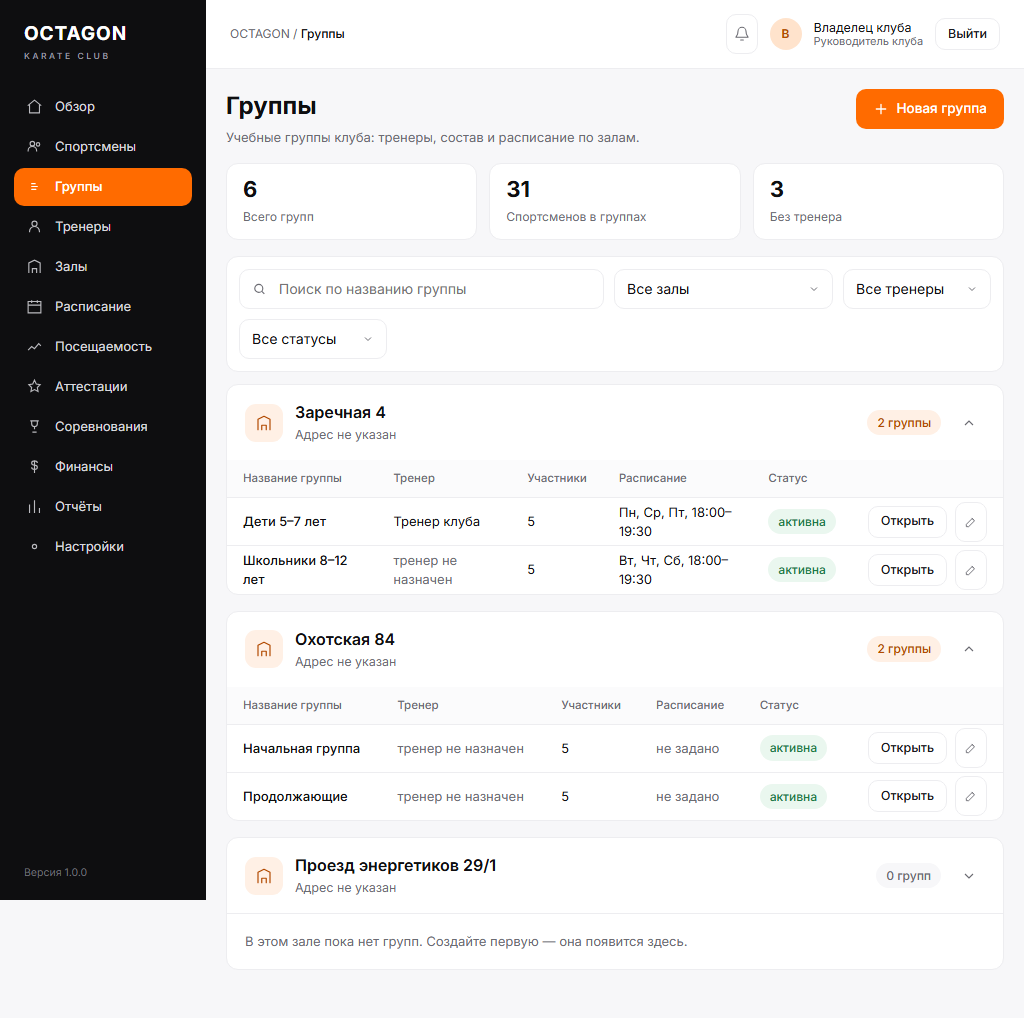
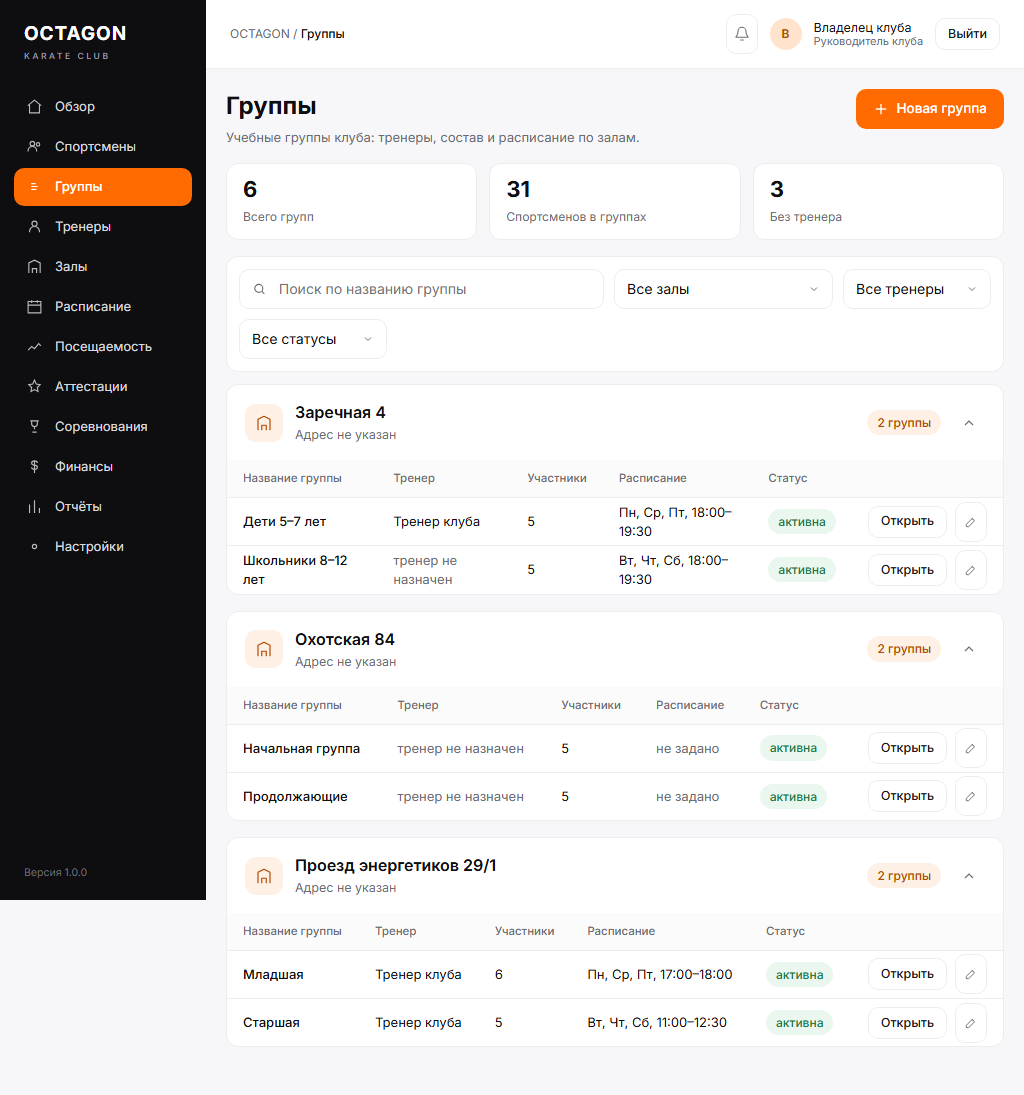
fix(design): меню на мобильном, прокрутка вкладок, 6 групп в залах (#131)

diff --git a/docs/design/mockups/groups-empty.html b/docs/design/mockups/groups-empty.html
@@ -1,0 +1,156 @@
+<!DOCTYPE html>
+<html lang="ru">
+<head>
+<meta charset="utf-8" />
+<meta name="viewport" content="width=device-width, initial-scale=1" />
+<title>OCTAGON Control 2.0 — Группы, пустой зал</title>
+<link rel="preconnect" href="https://fonts.googleapis.com" />
+<link rel="preconnect" href="https://fonts.gstatic.com" crossorigin />
+<link href="https://fonts.googleapis.com/css2?family=Inter:wght@400;500;600;700&display=swap" rel="stylesheet" />
+<link rel="stylesheet" href="mockup.css" />
+<style>
+  .hall {
+    background: var(--white);
+    border: 1px solid var(--line);
+    border-radius: var(--radius-card);
+    overflow: hidden;
+    margin-bottom: 16px;
+  }
+  .hall-head {
+    display: flex;
+    flex-wrap: wrap;
+    align-items: center;
+    gap: 12px;
+    padding: 16px 18px;
+  }
+  .hall-icon {
+    display: grid;
+    place-items: center;
+    width: 38px;
+    height: 38px;
+    border-radius: 11px;
+    background: var(--accent-soft);
+    color: var(--accent-text);
+    flex: 0 0 auto;
+  }
+  .hall-title { min-width: 0; }
+  .hall-title h2 { margin: 0; font-size: 16px; font-weight: 600; }
+  .hall-title p { margin: 2px 0 0; color: var(--muted); font-size: 12.5px; }
+  .hall-count {
+    margin-left: auto;
+    padding: 4px 10px;
+    border-radius: 999px;
+    background: var(--accent-soft);
+    color: var(--accent-text);
+    font-size: 12px;
+    font-weight: 500;
+  }
+  .hall-head .chevron { border: 0; background: transparent; color: var(--muted); padding: 6px; }
+  .hall-empty { margin: 0; padding: 18px; border-top: 1px solid var(--line); color: var(--muted); font-size: 13px; }
+  .hall table thead th { background: #fbfbfc; }
+  .hall table tbody td { height: 48px; }
+  .hall .actions .row { display: inline-flex; gap: 8px; }
+
+  @media (max-width: 640px) {
+    .hall-head { padding: 12px 14px; }
+    .hall table, .hall tbody { display: block; }
+    .hall table thead { display: none; }
+    .hall tbody tr {
+      margin: 0 12px 6px;
+      padding: 8px 10px;
+      gap: 1px;
+      border: 1px solid var(--line);
+      border-radius: var(--radius-card);
+    }
+    .hall tbody tr:first-child { margin-top: 10px; }
+    .hall tbody tr:last-child { margin-bottom: 10px; }
+    .hall table tbody td { font-size: 12px; height: auto; padding: 2px 0; }
+    .hall tbody td.cell-main { font-size: 13.5px; }
+    .hall tbody td.actions { margin-top: 6px; }
+    .hall tbody td:nth-child(2)::before { content: 'Тренер: '; color: var(--muted); }
+    .hall tbody td:nth-child(3)::before { content: 'Участники: '; color: var(--muted); }
+    .hall tbody td:nth-child(4)::before { content: 'Расписание: '; color: var(--muted); }
+    .hall tbody td:nth-child(5)::before { content: 'Статус: '; color: var(--muted); }
+  }
+</style>
+</head>
+<body>
+<div class="app">
+  <aside class="app-side">
+    <div class="logo">OCTAGON<span>KARATE CLUB</span></div>
+    <nav class="nav">
+      <a href="#"><svg viewBox="0 0 24 24" fill="none" stroke="currentColor" stroke-width="1.6"><path d="M3 10.5 12 3l9 7.5M5 9.5V21h14V9.5" stroke-linecap="round" stroke-linejoin="round"/></svg><span>Обзор</span></a>
+      <a href="#"><svg viewBox="0 0 24 24" fill="none" stroke="currentColor" stroke-width="1.6"><circle cx="9" cy="8" r="3.2"/><path d="M3 19v-1a6 6 0 0 1 12 0v1"/><circle cx="17" cy="9" r="2.4"/></svg><span>Спортсмены</span></a>
+      <a class="active" href="#"><svg viewBox="0 0 24 24" fill="none" stroke="currentColor" stroke-width="1.6"><path d="M8 12h8M8 8h5M8 16h6" stroke-linecap="round"/></svg><span>Группы</span></a>
+      <a href="#"><svg viewBox="0 0 24 24" fill="none" stroke="currentColor" stroke-width="1.6"><circle cx="12" cy="8" r="3.6"/><path d="M5 20v-1a7 7 0 0 1 14 0v1"/></svg><span>Тренеры</span></a>
+      <a href="#"><svg viewBox="0 0 24 24" fill="none" stroke="currentColor" stroke-width="1.6"><path d="M4 21V7l8-4 8 4v14M9 21v-6h6v6"/></svg><span>Залы</span></a>
+      <a href="#"><svg viewBox="0 0 24 24" fill="none" stroke="currentColor" stroke-width="1.6"><path d="M3 5h18v16H3zM3 10h18M8 3v4M16 3v4"/></svg><span>Расписание</span></a>
+      <a href="#"><svg viewBox="0 0 24 24" fill="none" stroke="currentColor" stroke-width="1.6"><path d="M3 17l5-5 4 3 6-7 3 3"/></svg><span>Посещаемость</span></a>
+      <a href="#"><svg viewBox="0 0 24 24" fill="none" stroke="currentColor" stroke-width="1.6"><path d="M12 3l2.5 5.5L20 9.5l-4 4 1 5.5-5-2.7-5 2.7 1-5.5-4-4 5.5-1Z"/></svg><span>Аттестации</span></a>
+      <a href="#"><svg viewBox="0 0 24 24" fill="none" stroke="currentColor" stroke-width="1.6"><path d="M8 4h8v4a4 4 0 0 1-8 0zM6 4h2M16 4h2M12 12v4M9 20h6"/></svg><span>Соревнования</span></a>
+      <a href="#"><svg viewBox="0 0 24 24" fill="none" stroke="currentColor" stroke-width="1.6"><path d="M12 3v18M16 7c0-1.7-1.8-3-4-3S8 5.3 8 7s1.8 3 4 3 4 1.3 4 3-1.8 3-4 3-4-1.3-4-3"/></svg><span>Финансы</span></a>
+      <a href="#"><svg viewBox="0 0 24 24" fill="none" stroke="currentColor" stroke-width="1.6"><path d="M5 21V9M12 21V3M19 21v-7"/></svg><span>Отчёты</span></a>
+      <a href="#"><svg viewBox="0 0 24 24" fill="none" stroke="currentColor" stroke-width="1.6"><path d="M12 15a3 3 0 1 0 0-6 3 3 0 0 0 0 6Z"/></svg><span>Настройки</span></a>
+    </nav>
+    <div class="version">Версия 1.0.0</div>
+  </aside>
+
+  <main class="app-main">
+    <div class="app-top">
+    <button class="menu-toggle" type="button" aria-label="Открыть меню" aria-expanded="false">
+      <svg viewBox="0 0 24 24" fill="none" stroke="currentColor" stroke-width="1.8" style="width:20px;height:20px"><path d="M4 7h16M4 12h16M4 17h16" stroke-linecap="round"/></svg>
+    </button>
+
+      <div class="crumbs">OCTAGON / <b>Группы</b></div>
+      <div class="right">
+        <button class="btn btn-icon" type="button" aria-label="Уведомления"><svg viewBox="0 0 24 24" fill="none" stroke="currentColor" stroke-width="1.6"><path d="M18 8a6 6 0 1 0-12 0c0 7-3 7-3 9h18c0-2-3-2-3-9" stroke-linecap="round"/><path d="M10 21h4" stroke-linecap="round"/></svg></button>
+        <span class="avatar">В</span>
+        <span class="who">Владелец клуба<span>Руководитель клуба</span></span>
+        <button class="btn btn-secondary btn-sm" type="button">Выйти</button>
+      </div>
+    </div>
+
+    <div class="content">
+      <div class="page-header">
+        <div>
+          <h1>Группы</h1>
+          <p>Учебные группы клуба: тренеры, состав и расписание по залам.</p>
+        </div>
+        <button class="btn btn-primary" type="button">
+          <svg viewBox="0 0 24 24" fill="none" stroke="currentColor" stroke-width="2"><path d="M12 5v14M5 12h14" stroke-linecap="round"/></svg>
+          Новая группа
+        </button>
+      </div>
+
+      <div class="kpis" style="grid-template-columns:repeat(3,minmax(0,1fr))">
+        <div class="kpi"><b>4</b><span>Всего групп</span></div>
+        <div class="kpi"><b>31</b><span>Спортсменов в группах</span></div>
+        <div class="kpi"><b>3</b><span>Без тренера</span></div>
+      </div>
+
+      <div class="filters" style="margin-top:16px">
+        <label class="search">
+          <svg viewBox="0 0 24 24" fill="none" stroke="currentColor" stroke-width="1.8" style="width:16px;height:16px"><circle cx="11" cy="11" r="6.5"/><path d="M16 16l4 4"/></svg>
+          <input placeholder="Поиск по названию группы" />
+        </label>
+        <select class="select"><option>Все залы</option><option>Заречная 4</option><option>Охотская 84</option><option>Проезд энергетиков 29/1</option></select>
+        <select class="select"><option>Все тренеры</option><option>Тренер клуба</option></select>
+        <select class="select"><option>Все статусы</option><option>Активные</option><option>Неактивные</option></select>
+      </div>
+
+      <!-- Зал без групп -->
+      <section class="hall">
+        <header class="hall-head">
+          <span class="hall-icon"><svg width="18" height="18" viewBox="0 0 24 24" fill="none" stroke="currentColor" stroke-width="1.6"><path d="M4 21V7l8-4 8 4v14M9 21v-6h6v6" stroke-linecap="round" stroke-linejoin="round"/></svg></span>
+          <div class="hall-title"><h2>Проезд энергетиков 29/1</h2><p>Адрес не указан</p></div>
+          <span class="hall-count" style="background:var(--canvas);color:var(--muted)">0 групп</span>
+          <button class="btn btn-icon chevron" type="button" aria-label="Развернуть"><svg viewBox="0 0 24 24" fill="none" stroke="currentColor" stroke-width="1.7" style="width:16px;height:16px"><path d="M6 9l6 6 6-6"/></svg></button>
+        </header>
+        <p class="hall-empty">В этом зале пока нет групп. Создайте первую — она появится здесь.</p>
+      </section>
+    
+    </div>
+  </main>
+</div>
+</body>
+</html>

diff --git a/docs/design/mockups/groups.html b/docs/design/mockups/groups.html
@@ -97,6 +97,10 @@
 
   <main class="app-main">
     <div class="app-top">
+    <button class="menu-toggle" type="button" aria-label="Открыть меню" aria-expanded="false">
+      <svg viewBox="0 0 24 24" fill="none" stroke="currentColor" stroke-width="1.8" style="width:20px;height:20px"><path d="M4 7h16M4 12h16M4 17h16" stroke-linecap="round"/></svg>
+    </button>
+
       <div class="crumbs">OCTAGON / <b>Группы</b></div>
       <div class="right">
         <button class="btn btn-icon" type="button" aria-label="Уведомления"><svg viewBox="0 0 24 24" fill="none" stroke="currentColor" stroke-width="1.6"><path d="M18 8a6 6 0 1 0-12 0c0 7-3 7-3 9h18c0-2-3-2-3-9" stroke-linecap="round"/><path d="M10 21h4" stroke-linecap="round"/></svg></button>
@@ -168,16 +172,23 @@
         </table>
       </section>
 
-      <!-- Зал без групп -->
+      <!-- Зал с группами -->
       <section class="hall">
         <header class="hall-head">
           <span class="hall-icon"><svg width="18" height="18" viewBox="0 0 24 24" fill="none" stroke="currentColor" stroke-width="1.6"><path d="M4 21V7l8-4 8 4v14M9 21v-6h6v6" stroke-linecap="round" stroke-linejoin="round"/></svg></span>
           <div class="hall-title"><h2>Проезд энергетиков 29/1</h2><p>Адрес не указан</p></div>
-          <span class="hall-count" style="background:var(--canvas);color:var(--muted)">0 групп</span>
-          <button class="btn btn-icon chevron" type="button" aria-label="Развернуть"><svg viewBox="0 0 24 24" fill="none" stroke="currentColor" stroke-width="1.7" style="width:16px;height:16px"><path d="M6 9l6 6 6-6"/></svg></button>
+          <span class="hall-count">2 группы</span>
+          <button class="btn btn-icon chevron" type="button" aria-label="Свернуть"><svg viewBox="0 0 24 24" fill="none" stroke="currentColor" stroke-width="1.7" style="width:16px;height:16px"><path d="M6 15l6-6 6 6"/></svg></button>
         </header>
-        <p class="hall-empty">В этом зале пока нет групп. Создайте первую — она появится здесь.</p>
+        <table>
+          <thead><tr><th>Название группы</th><th>Тренер</th><th>Участники</th><th>Расписание</th><th>Статус</th><th></th></tr></thead>
+          <tbody>
+            <tr><td class="cell-main"><a href="#">Младшая</a></td><td>Тренер клуба</td><td>6</td><td>Пн, Ср, Пт, 17:00–18:00</td><td><span class="status status-active">активна</span></td><td class="actions"><span class="row"><button class="btn btn-secondary btn-sm" type="button">Открыть</button><button class="btn btn-icon" type="button" aria-label="Изменить"><svg viewBox="0 0 24 24" fill="none" stroke="currentColor" stroke-width="1.6" style="width:14px;height:14px"><path d="M4 20h4l10-10-4-4L4 16v4Z"/><path d="M13 5l4 4"/></svg></button></span></td></tr>
+            <tr><td class="cell-main"><a href="#">Старшая</a></td><td>Тренер клуба</td><td>5</td><td>Вт, Чт, Сб, 11:00–12:30</td><td><span class="status status-active">активна</span></td><td class="actions"><span class="row"><button class="btn btn-secondary btn-sm" type="button">Открыть</button><button class="btn btn-icon" type="button" aria-label="Изменить"><svg viewBox="0 0 24 24" fill="none" stroke="currentColor" stroke-width="1.6" style="width:14px;height:14px"><path d="M4 20h4l10-10-4-4L4 16v4Z"/><path d="M13 5l4 4"/></svg></button></span></td></tr>
+          </tbody>
+        </table>
       </section>
+    
     </div>
   </main>
 </div>

diff --git a/docs/design/mockups/athlete-card.html b/docs/design/mockups/athlete-card.html
@@ -34,7 +34,21 @@
   .main-col { display: flex; flex-direction: column; gap: 16px; min-width: 0; }
   .side-col { display: flex; flex-direction: column; gap: 16px; }
 
-  .tabs { margin-top: 16px; }
+  .tabs {
+    margin-top: 16px;
+    display: flex;
+    gap: 20px;
+    border-bottom: 1px solid var(--line);
+    overflow-x: auto;
+    scrollbar-width: thin;
+    -webkit-overflow-scrolling: touch;
+    /* Индикация продолжения: тень у правого края видна, пока есть скрытые вкладки. */
+    background:
+      linear-gradient(to right, var(--white) 30%, rgba(255, 255, 255, 0)) left center / 24px 100% no-repeat,
+      linear-gradient(to left, var(--white) 30%, rgba(255, 255, 255, 0)) right center / 24px 100% no-repeat,
+      radial-gradient(farthest-side at 100% 50%, rgba(14, 14, 16, 0.12), transparent) right center / 12px 100% no-repeat;
+  }
+  .tabs a { flex: 0 0 auto; }
   .info {
     display: grid;
     grid-template-columns: repeat(2, minmax(0, 1fr));
@@ -107,6 +121,10 @@
 
   <main class="app-main">
     <div class="app-top">
+    <button class="menu-toggle" type="button" aria-label="Открыть меню" aria-expanded="false">
+      <svg viewBox="0 0 24 24" fill="none" stroke="currentColor" stroke-width="1.8" style="width:20px;height:20px"><path d="M4 7h16M4 12h16M4 17h16" stroke-linecap="round"/></svg>
+    </button>
+
       <div class="crumbs">OCTAGON / Спортсмены / <b>Профиль</b></div>
       <div class="right">
         <button class="btn btn-icon" type="button" aria-label="Уведомления"><svg viewBox="0 0 24 24" fill="none" stroke="currentColor" stroke-width="1.6"><path d="M18 8a6 6 0 1 0-12 0c0 7-3 7-3 9h18c0-2-3-2-3-9" stroke-linecap="round"/><path d="M10 21h4" stroke-linecap="round"/></svg></button>

diff --git a/docs/design/mockups/mockup.css b/docs/design/mockups/mockup.css
@@ -312,3 +312,79 @@ tbody a:hover {
   text-decoration-color: var(--accent-warm);
   text-underline-offset: 2px;
 }
+
+/* Мобильное меню (#131, уточнение 1): вместо двух строк иконок — кнопка «Меню»
+   44×44 и выдвижная панель с подписями. */
+.menu-toggle {
+  display: none;
+  width: 44px;
+  height: 44px;
+  align-items: center;
+  justify-content: center;
+  border: 1px solid var(--line);
+  border-radius: var(--radius-control);
+  background: var(--white);
+  color: var(--ink);
+  cursor: pointer;
+}
+
+@media (max-width: 860px) {
+  .app-side { display: none; }
+  .menu-toggle { display: inline-flex; }
+}
+
+body.menu-open .app-side {
+  display: flex;
+  position: fixed;
+  inset: 0;
+  z-index: 40;
+  height: 100vh;
+  width: 100%;
+  max-width: 320px;
+  flex-direction: column;
+  padding: 18px 14px;
+  overflow-y: auto;
+}
+
+body.menu-open .app-side .nav {
+  flex-direction: column;
+  flex-wrap: nowrap;
+  gap: 2px;
+}
+
+body.menu-open .app-side .nav a {
+  height: 44px;
+  padding: 0 12px;
+}
+
+body.menu-open .app-side .nav a span {
+  display: inline;
+}
+
+body.menu-open::after {
+  content: '';
+  position: fixed;
+  inset: 0;
+  z-index: 30;
+  background: var(--overlay);
+}
+
+/* Мобильный топбар: остаются «Меню», уведомления и профиль; крошки и «Выйти»
+   уходят, чтобы ничего не сжималось (#131). */
+@media (max-width: 860px) {
+  .app-top {
+    gap: 10px;
+  }
+  .app-top .crumbs {
+    display: none;
+  }
+  .app-top .right {
+    gap: 8px;
+    margin-left: 0;
+    flex: 1;
+    justify-content: flex-end;
+  }
+  .app-top .right .btn-secondary {
+    display: none;
+  }
+}

diff --git a/docs/design/mockups/athletes.html b/docs/design/mockups/athletes.html
@@ -32,6 +32,10 @@
 
   <main class="app-main">
     <div class="app-top">
+    <button class="menu-toggle" type="button" aria-label="Открыть меню" aria-expanded="false">
+      <svg viewBox="0 0 24 24" fill="none" stroke="currentColor" stroke-width="1.8" style="width:20px;height:20px"><path d="M4 7h16M4 12h16M4 17h16" stroke-linecap="round"/></svg>
+    </button>
+
       <div class="crumbs">OCTAGON / <b>Спортсмены</b></div>
       <div class="right">
         <button class="btn btn-icon" type="button" aria-label="Уведомления"><svg viewBox="0 0 24 24" fill="none" stroke="currentColor" stroke-width="1.6"><path d="M18 8a6 6 0 1 0-12 0c0 7-3 7-3 9h18c0-2-3-2-3-9" stroke-linecap="round"/><path d="M10 21h4" stroke-linecap="round"/></svg></button>

diff --git a/docs/design/mockups/schedule.html b/docs/design/mockups/schedule.html
@@ -84,6 +84,10 @@
 
   <main class="app-main">
     <div class="app-top">
+    <button class="menu-toggle" type="button" aria-label="Открыть меню" aria-expanded="false">
+      <svg viewBox="0 0 24 24" fill="none" stroke="currentColor" stroke-width="1.8" style="width:20px;height:20px"><path d="M4 7h16M4 12h16M4 17h16" stroke-linecap="round"/></svg>
+    </button>
+
       <div class="crumbs">OCTAGON / <b>Расписание</b></div>
       <div class="right">
         <button class="btn btn-icon" type="button" aria-label="Уведомления"><svg viewBox="0 0 24 24" fill="none" stroke="currentColor" stroke-width="1.6"><path d="M18 8a6 6 0 1 0-12 0c0 7-3 7-3 9h18c0-2-3-2-3-9" stroke-linecap="round"/><path d="M10 21h4" stroke-linecap="round"/></svg></button>
